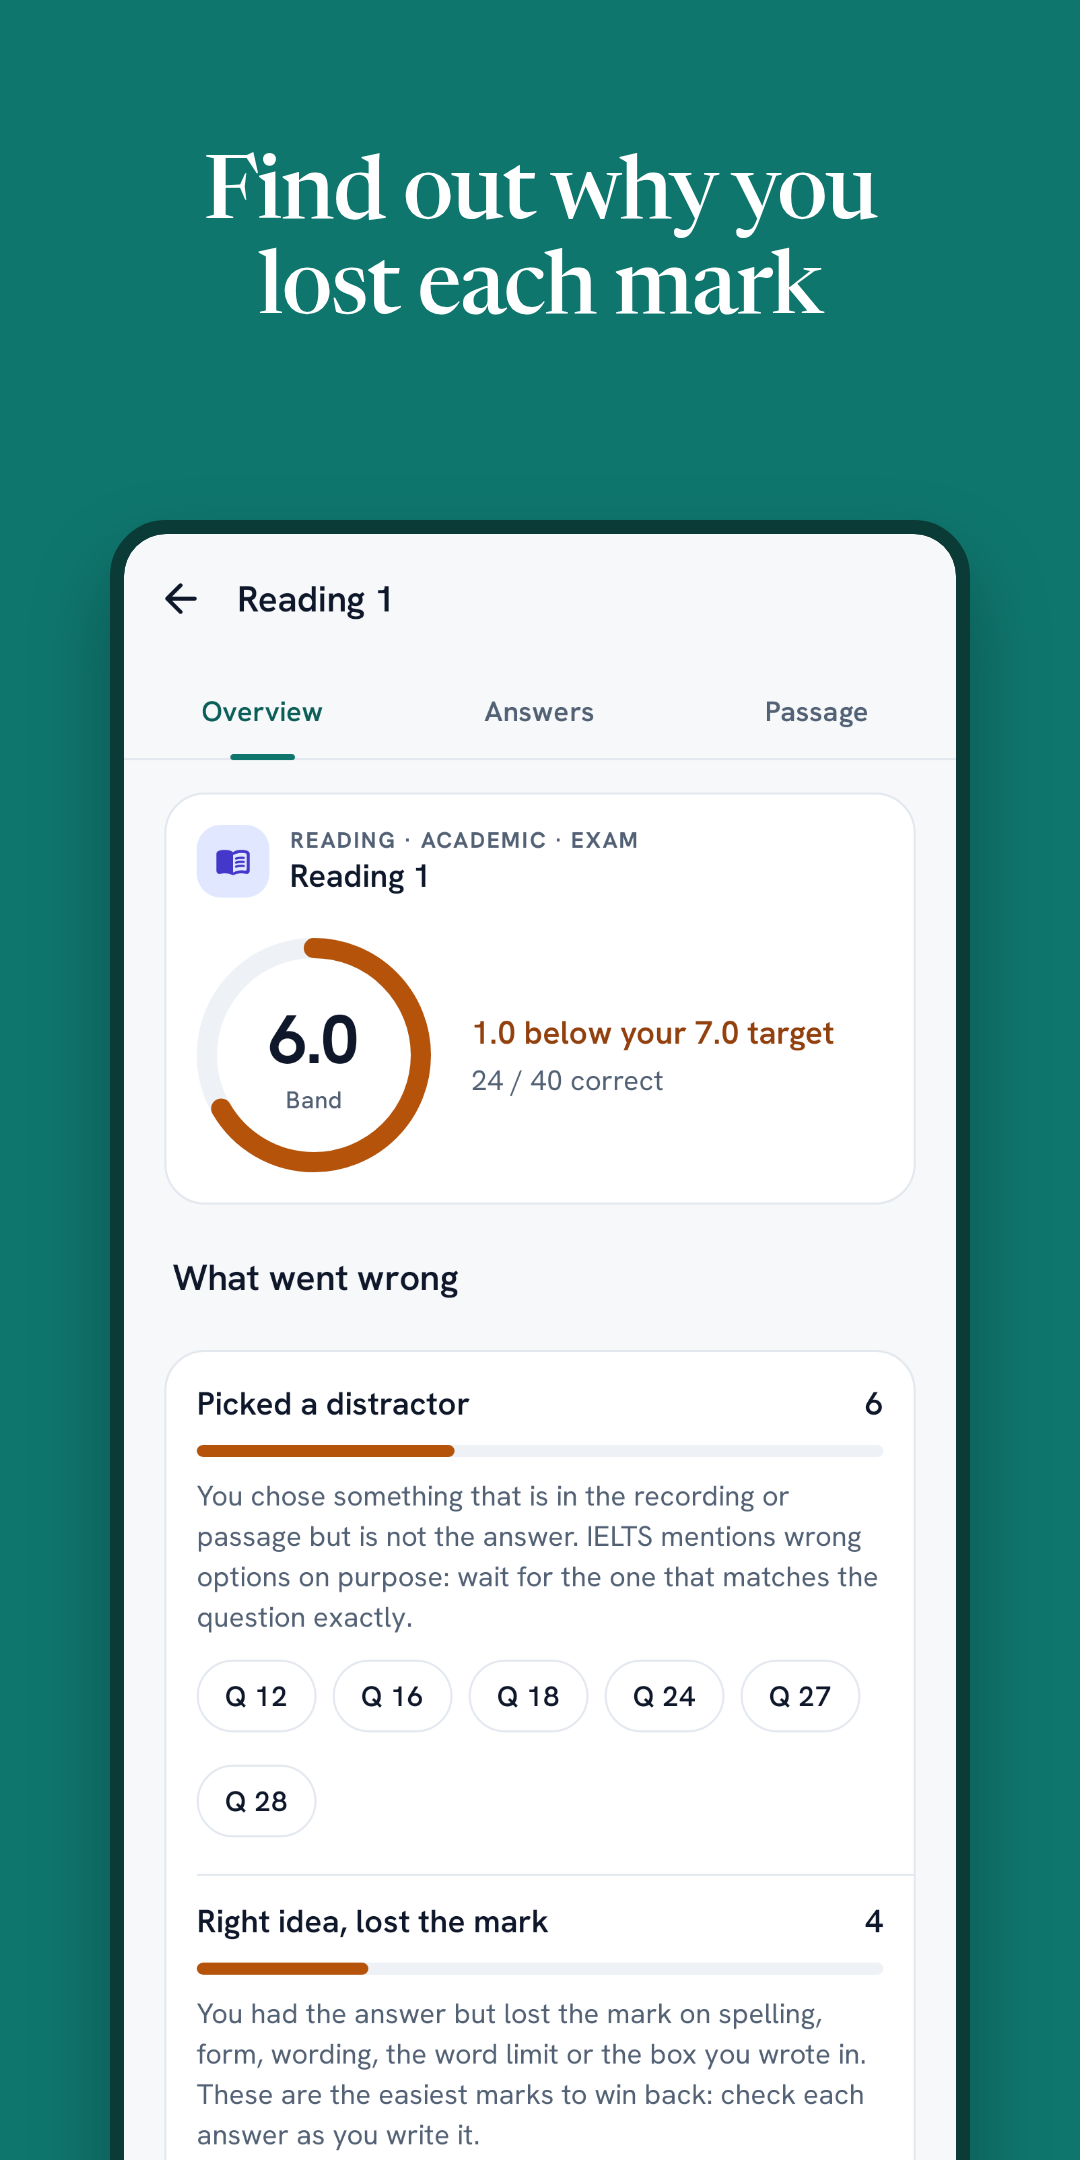
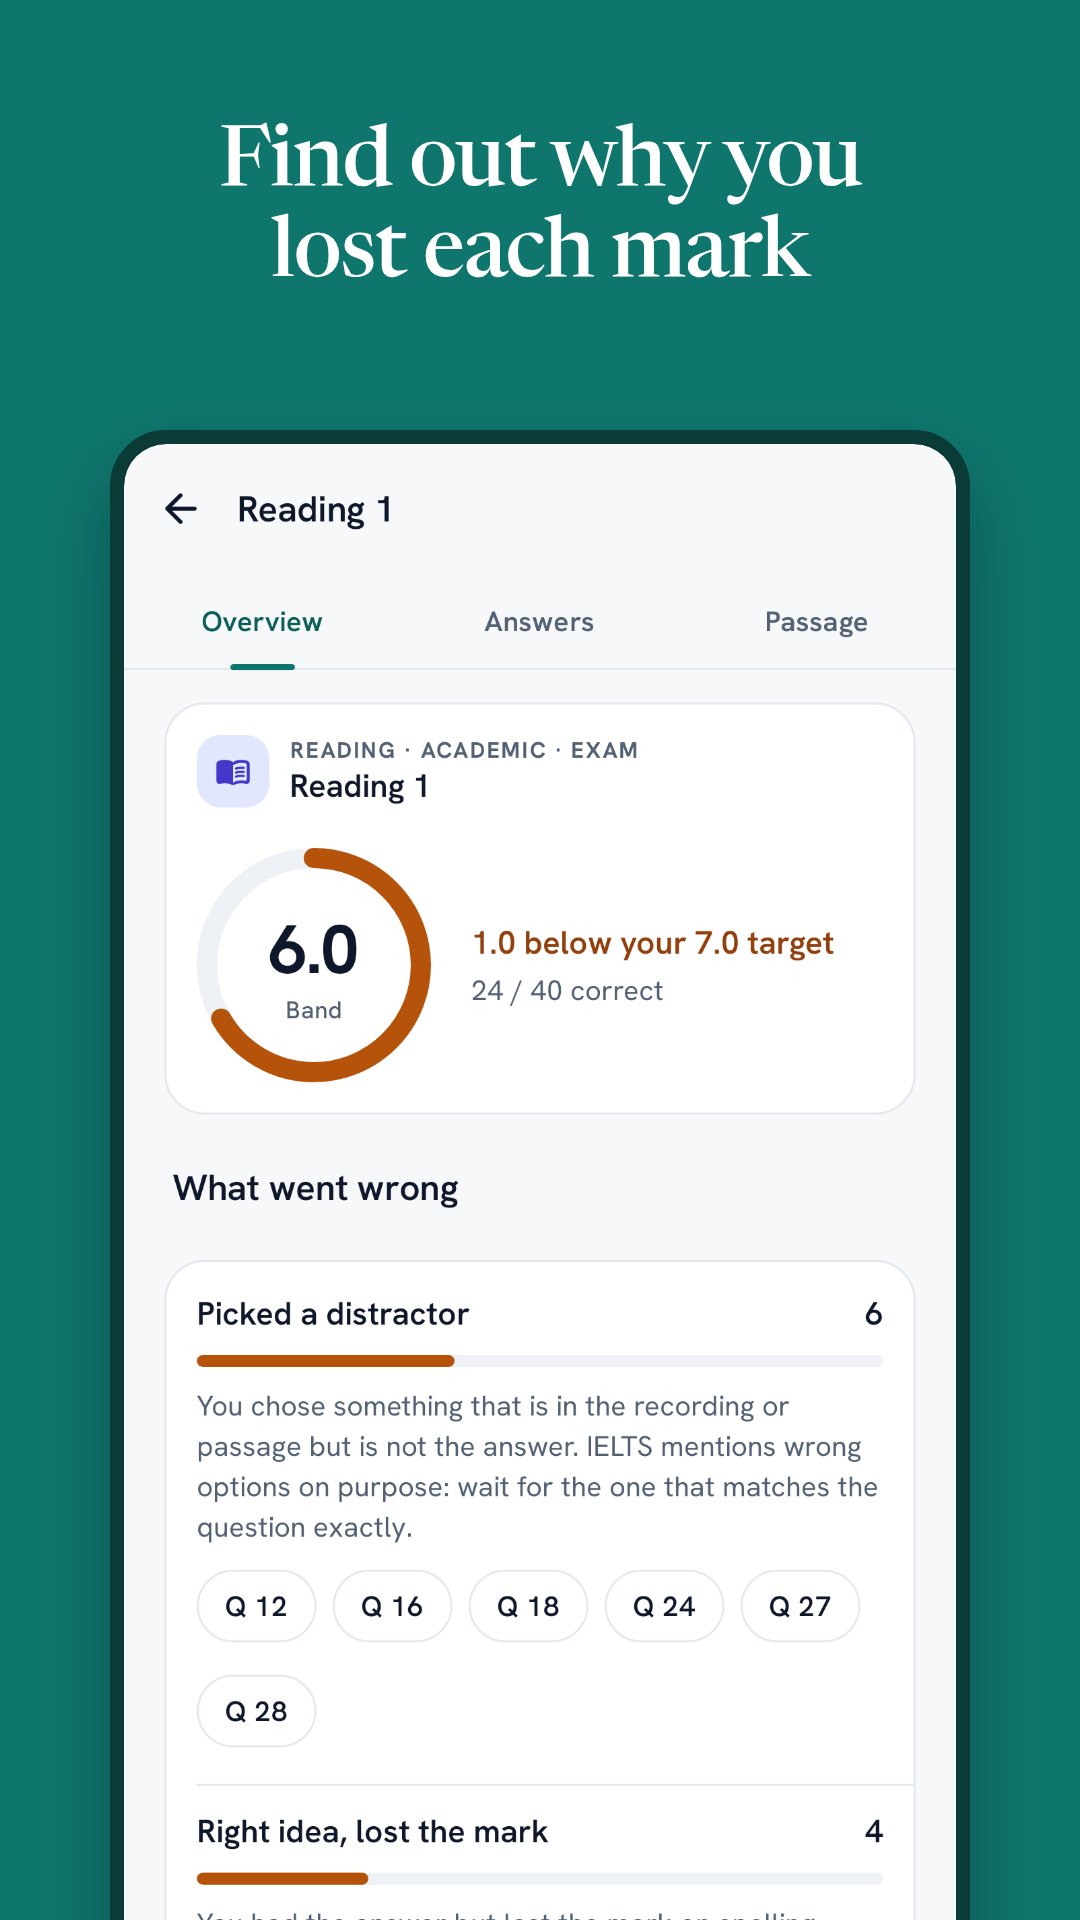
docs: README (what NextBand is, stack, local run); store screenshots are 1080x1920 (Play takes only 16:9 or 9:16 phone screenshots now)

diff --git a/scripts/play-store-assets.py b/scripts/play-store-assets.py
@@ -25,10 +25,10 @@ def render(html, name, w, h):
     f=f'{SP}/store-{name}.html'; open(f,'w').write(html)
     subprocess.run(['/usr/bin/google-chrome-stable','--headless=new','--disable-gpu','--hide-scrollbars','--virtual-time-budget=8000',f'--window-size={w},{h}',f'--screenshot={OUT}/{name}.png',f'file://{f}'],check=True,capture_output=True)
 for i,(shot,cap) in enumerate(SHOTS,1):
-    W,H=1080,2160
+    W,H=1080,1920 # Play: phone screenshots must be 9:16
     html=f'''<!doctype html><html><head><meta charset="utf-8">{FONTS}<style>{CSS%(W,H)}
-h1{{position:absolute;left:90px;right:90px;top:150px;font-size:88px;line-height:1.08;text-align:center}}
-.phone{{left:110px;width:860px;top:520px}}</style></head><body>
+h1{{position:absolute;left:90px;right:90px;top:120px;font-size:84px;line-height:1.08;text-align:center}}
+.phone{{left:110px;width:860px;top:430px}}</style></head><body>
 <h1>{cap}</h1><div class="phone"><img src="file://{Z}/{shot}.png"></div></body></html>'''
     render(html,f'phone-{i:02d}',W,H)
 W,H=1024,500

diff --git a/README.md b/README.md
@@ -1,0 +1,42 @@
+# NextBand
+
+IELTS practice that tells you what band you would get today, and why. Live at **[nextband.app](https://nextband.app)**, with an Android app on Google Play (closed testing).
+
+<p>
+  <img src="docs/play/assets/phone-01.png" width="200" alt="Writing result with a band per criterion">
+  <img src="docs/play/assets/phone-03.png" width="200" alt="Live AI examiner">
+  <img src="docs/play/assets/phone-05.png" width="200" alt="Timed Listening test">
+  <img src="docs/play/assets/phone-08.png" width="200" alt="Daily streak">
+</p>
+
+## What it does
+
+- **Writing:** Task 1 and 2 on the real clock, a band for each criterion, and every grammar and vocabulary mistake marked in the essay with the fix and the reason.
+- **Speaking:** record Parts 1–3, or talk to a live AI examiner that asks follow-up questions. Results show bands, the transcript, pace, pauses and words to work on.
+- **Listening and Reading:** full 40-question tests in exam and practice modes; after each test, the transcript or passage with the answer highlighted and why each mark was lost.
+- **Full mock test**, **drills built from your own mistakes** (spaced repetition), daily streaks and push reminders.
+
+## Stack
+
+| Part | Tech |
+|---|---|
+| Web (`apps/web`) | Vite, React, TanStack Router and Query, typed client generated from the OpenAPI spec |
+| API (`apps/server`) | Hono + zod-openapi, Drizzle ORM, Postgres, Better Auth, Cloudflare R2, FCM push |
+| Android (`apps/android`) | Kotlin, Jetpack Compose, screenshot tests in CI |
+| iOS (`apps/ios`) | SwiftUI |
+| Shared (`packages/core`) | Band and scoring logic used by the server and web |
+| Live examiner (`services/livekit`) | LiveKit agent worker (Python): streaming speech-to-text and an LLM examiner |
+
+Scoring runs through OpenRouter. Deploys are Docker images built in GitHub Actions and run on Dokploy.
+
+## Run it locally
+
+```sh
+pnpm install
+cp .env.example .env                # point DATABASE_URL at a Postgres, fill in the keys you need
+pnpm dev                            # web on :5173, API on :8787
+```
+
+Tests: `npx vitest run` inside each package. After changing API schemas, run `pnpm gen:api`. Android builds run in CI (`.github/workflows`).
+
+NextBand is independent and not affiliated with the British Council, IDP: IELTS Australia or Cambridge University Press & Assessment. IELTS is a registered trademark of those organisations.

diff --git a/docs/play/store-listing.md b/docs/play/store-listing.md
@@ -92,7 +92,7 @@ NextBand একটি স্বাধীন অ্যাপ। British Council, 
 |---|---|---|
 | App icon | `icon-512.png` | 512 × 512 PNG |
 | Feature graphic | `feature-graphic.png` | 1024 × 500 PNG |
-| Phone screenshots (upload in this order) | `phone-01.png` … `phone-08.png` | 1080 × 2160 (2:1, the most Play allows) |
+| Phone screenshots (upload in this order) | `phone-01.png` … `phone-08.png` | 1080 × 1920 (9:16; Play takes only 16:9 or 9:16 now) |
 
 Captions, in order: a band score for every criterion; every mistake marked in your essay; talk to a live AI examiner; see your pace, pauses and fluency; Listening and Reading, timed like the exam; find out why you lost each mark; drill the mistakes you actually make; a few minutes a day, every day.
 Regenerate after a UI change: download `android-screens.zip` from the `android-android-v2-latest` release, unzip it and run `python3 scripts/play-store-assets.py <that folder>`.
